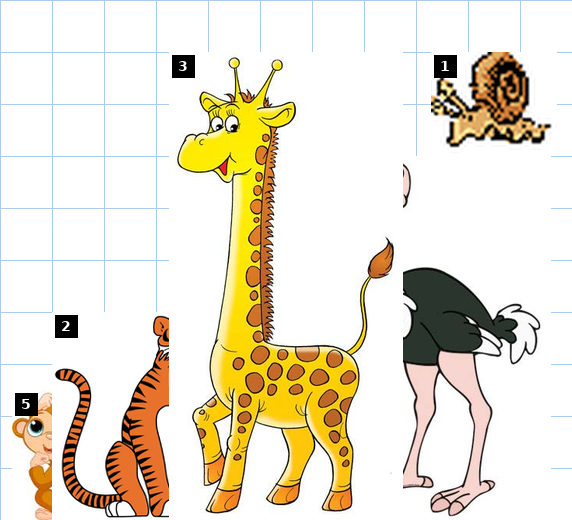
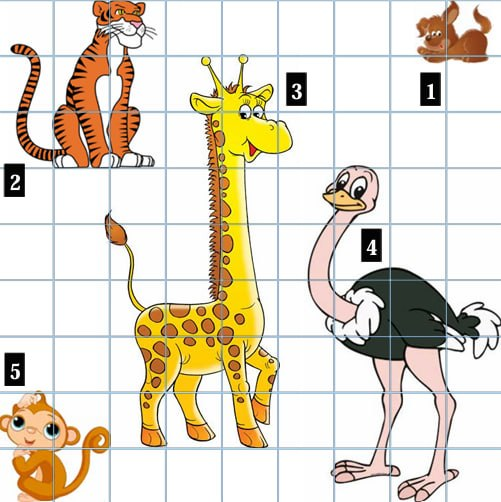
fix(stage2): correct image mapping for Q20/Q21/Q27
- Q20 (Florian strips): replace wrong images with combined context+options image; text-only A-E options
- Q21 (kangaroo cards): replace strips images with correct kangaroo question image; text-only A-E options
- Q27 (building blocks): replace 2x2 cube image with correct 6-tower structure image
- Q5 grid: replace generated composite with original PDF image from Soodeh

diff --git a/src/data/questions.ts b/src/data/questions.ts
@@ -316,13 +316,13 @@ export const questions: Question[] = [
     id: 20, stage: 2, level: "3pt", year: 2015, grade_group: "1-2",
     text_en: "Florian has 10 equally long metal strips with equally many holes. He bolts the metal strips together in pairs. Now he has five long strips. Which of the long strips is the shortest?",
     text_fa: "فلوریان ۱۰ نوار فلزی با طول یکسان دارد. آنها را دو به دو به هم وصل کرد. کدام نوار بلند کوتاهترین است؟",
-    question_image_url: `${BASE}/felix-2015-img-027.png`,
+    question_image_url: `${BASE}/felix-2015-q20-combined.png`,
     options: [
-      { id: "A", text_en: "A", text_fa: "الف", image_url: `${BASE}/felix-2015-img-032.png` },
-      { id: "B", text_en: "B", text_fa: "ب", image_url: `${BASE}/felix-2015-img-033.png` },
-      { id: "C", text_en: "C", text_fa: "ج", image_url: `${BASE}/felix-2015-img-034.png` },
-      { id: "D", text_en: "D", text_fa: "د", image_url: `${BASE}/felix-2015-img-035.png` },
-      { id: "E", text_en: "E", text_fa: "ه", image_url: `${BASE}/felix-2015-img-036.png` },
+      { id: "A", text_en: "A", text_fa: "الف" },
+      { id: "B", text_en: "B", text_fa: "ب" },
+      { id: "C", text_en: "C", text_fa: "ج" },
+      { id: "D", text_en: "D", text_fa: "د" },
+      { id: "E", text_en: "E", text_fa: "ه" },
     ],
     correct: "B",
     skills: ["comparison", "arithmetic"],
@@ -331,13 +331,13 @@ export const questions: Question[] = [
     id: 21, stage: 2, level: "4pt", year: 2015, grade_group: "1-2",
     text_en: "Which of the kangaroo cards shown below can be turned around so that it then looks the same as the card shown on the right?",
     text_fa: "کدام کارت کانگورو را میتوان چرخاند تا مانند کارت سمت راست شود؟",
-    question_image_url: `${BASE}/felix-2015-img-037.png`,
+    question_image_url: `${BASE}/felix-2015-q21-kangaroo-context.png`,
     options: [
-      { id: "A", text_en: "A", text_fa: "الف", image_url: `${BASE}/felix-2015-img-038.png` },
-      { id: "B", text_en: "B", text_fa: "ب", image_url: `${BASE}/felix-2015-img-039.png` },
-      { id: "C", text_en: "C", text_fa: "ج", image_url: `${BASE}/felix-2015-img-040.png` },
-      { id: "D", text_en: "D", text_fa: "د", image_url: `${BASE}/felix-2015-img-042.png` },
-      { id: "E", text_en: "E", text_fa: "ه", image_url: `${BASE}/felix-2015-img-044.png` },
+      { id: "A", text_en: "A", text_fa: "الف" },
+      { id: "B", text_en: "B", text_fa: "ب" },
+      { id: "C", text_en: "C", text_fa: "ج" },
+      { id: "D", text_en: "D", text_fa: "د" },
+      { id: "E", text_en: "E", text_fa: "ه" },
     ],
     correct: "E",
     skills: ["spatial reasoning", "rotation"],
@@ -419,7 +419,7 @@ export const questions: Question[] = [
     id: 27, stage: 2, level: "5pt", year: 2015, grade_group: "1-2",
     text_en: "Every one of these six building blocks consists of 5 little cubes. The little cubes are either white or grey. Cubes of equal colour don't touch each other. How many little white cubes are there in total?",
     text_fa: "هر یک از شش قطعه ساختمانی از ۵ مکعب کوچک تشکیل شده. مکعبهای همرنگ با هم تماس ندارند. در مجموع چند مکعب سفید وجود دارد؟",
-    question_image_url: `${BASE}/felix-2015-img-067.png`,
+    question_image_url: `${BASE}/felix-2015-q27-blocks.png`,
     options: [
       { id: "A", text_en: "10", text_fa: "۱۰" },
       { id: "B", text_en: "11", text_fa: "۱۱" },